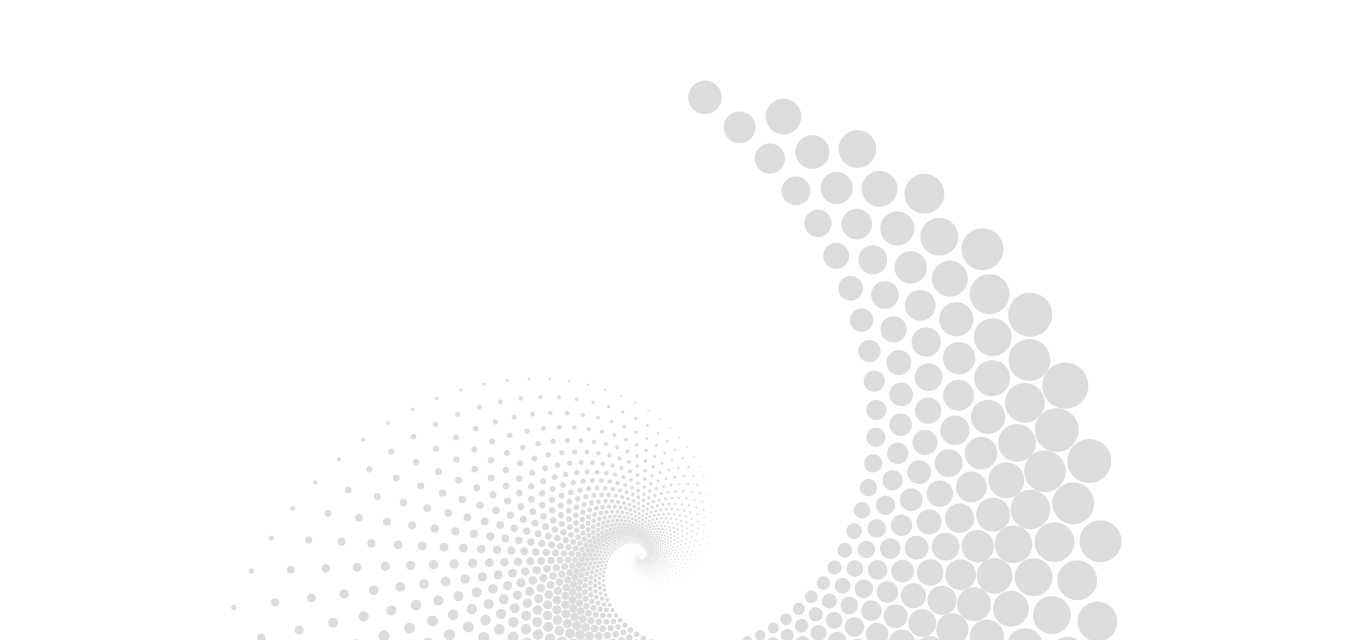
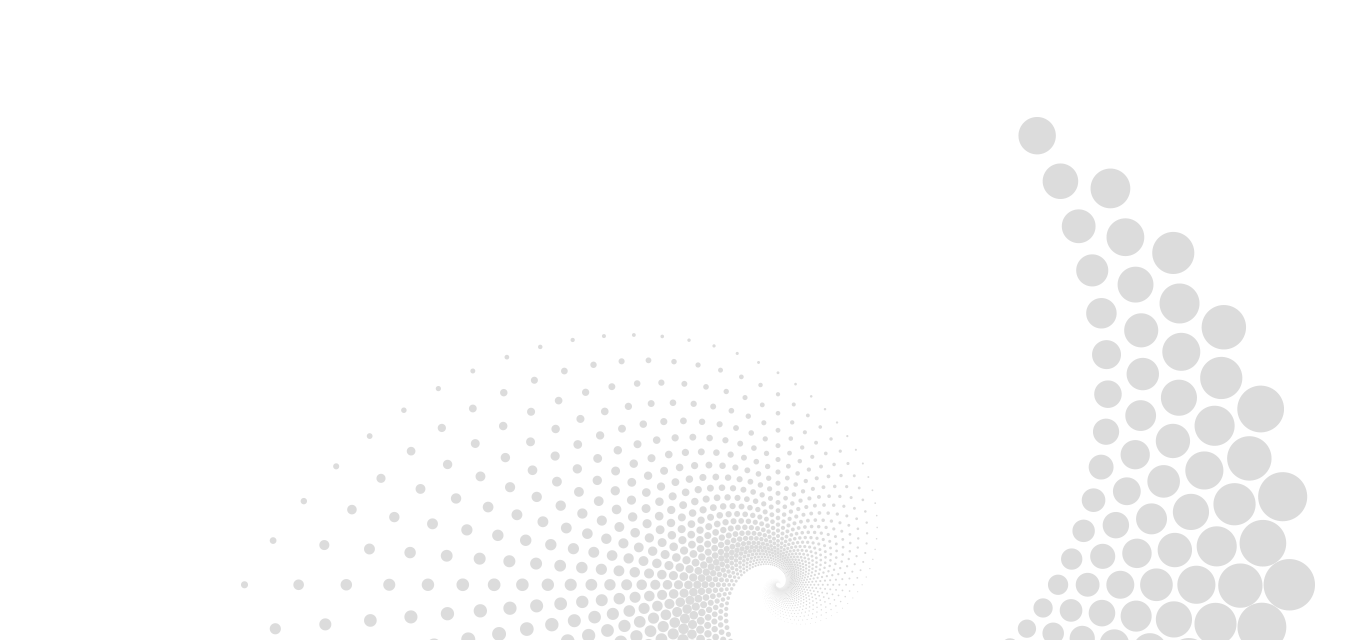
Fix bug: bg/menu-focus/animation enter-liave/pic

diff --git a/src/style/animation.css b/src/style/animation.css
@@ -5,7 +5,8 @@
 .enter .background,
 .enter .footer,
 .enter .header,
-.enter .main{
+.enter .main,
+.enter .zen-box .description{
   animation: enter-disappear 0.7s ease-in-out;
 }
 @keyframes leave-disappear{
@@ -15,7 +16,8 @@
 .leave .background,
 .leave .footer,
 .leave .header,
-.leave .main{
+.leave .main,
+.leave .zen-box .description{
   opacity: 0;
   animation: leave-disappear 0.7s ease-in-out;
 }
@@ -69,10 +71,9 @@
 .pic .cover{
   overflow: hidden;
 }
-
-
 @keyframes enter-desc{
   0% { opacity: 0;  }
+  80% { opacity: 0;  }
   100% { opacity: 1; }
 }
 .enter-desc.desc{
@@ -80,6 +81,7 @@
 }
 @keyframes leave-desc{
   0% { opacity: 1;  }
+  60% { opacity: 0;  }
   100% { opacity: 0; }
 }
 .leave-desc.desc{
@@ -123,39 +125,26 @@
   animation: leave-zen-box 0.7s ease-in-out;
 }
 
-
-@keyframes enter-zen-box-desc{
-  0% { opacity: 0;  }
-  50% { opacity: .2; }
-  100% { opacity: 1; }
-}
-.enter .zen-box .description{
-  animation: enter-zen-box-desc 0.7s ease-in-out;
-}
-@keyframes leave-zen-box-desc{
-  0% { opacity: 1;  }
-  50% { opacity: .8; }
-  100% { opacity: 0; }
-}
-.leave .zen-box .description{
-  animation: leave-zen-box-desc 0.7s ease-in-out;
-}
-
 .pic .cover{
   overflow: hidden;
 }
-  @keyframes enter-pic{
+.pic .jalousie{
+  animation: enter-pic 0.7s ease-in-out;
+}
+@keyframes enter-pic{
   0% { transform: translateX(-240%);  }
   100% { transform: translateX(0%); }
 }
-.pic.enter-pic .jalousie{
+.pic.enter-pic .jalousie,
+.enter .pic .jalousie{
   animation: enter-pic 0.7s ease-in-out;
 }
 @keyframes leave-pic{
   0% { transform: translateX(0);  }
   100% { transform: translateX(-240%); }
 }
-.pic.leave-pic .jalousie{
+.pic.leave-pic .jalousie,
+.leave .pic .jalousie{
   transform: translateX(-240%);
   animation: leave-pic 0.7s ease-in-out;
 }

diff --git a/src/containers/Menu/index.js b/src/containers/Menu/index.js
@@ -19,9 +19,12 @@ class Menu extends Component {
       className={ 'menu ' + (this.props.menu.menuIsOpen ? 'isOpend' : '') }
       onClick={this.handleToggleMenu}
       onKeyDown={this.handleKeydown}
-      onBlur={this.handleBlur}
+      //onBlur={this.handleBlur} 
     >
-      <button></button>
+      <div
+        className='arrow-for-button'>
+        <button></button>
+      </div>
       <ul>
         <li><NavLink to='/portfolio-des'>Portfolio</NavLink></li>
         <li><NavLink to='/about-des'>About</NavLink></li>
@@ -36,8 +39,11 @@ class Menu extends Component {
   handleToggleMenu = (event) => {
     const { menu } = this.props,
           { openMenu, closeMenu } = this.props.menuActions
-    if (event.target.tagName != 'BUTTON') return;
-    menu.menuIsOpen ? closeMenu() : openMenu()
+    if ( event.target.tagName == 'BUTTON'
+    || event.target.classList.contains('arrow-for-button') ) {
+      menu.menuIsOpen ? closeMenu() : openMenu()
+    }
+
   }
 
   handleBlur = (event) => {
@@ -70,7 +76,6 @@ class Menu extends Component {
 
 function mapStateToProps (state) {
   return {
-    //who: state.who,
     menu: state.menu,
   }
 }

diff --git a/src/middlewares/routingAnimation.js b/src/middlewares/routingAnimation.js
@@ -1,13 +1,14 @@
 import { LOCATION_CHANGE } from 'react-router-redux'
 
-export const routingDelay = store => next => action => { //eslint-disable-line no-unused-vars
+export const routingAnimation = store => next => action => { //eslint-disable-line no-unused-vars
 
   const shell = document.body.querySelector('.shell')
   if(!shell)return;
 
-  if (action.type === LOCATION_CHANGE) {
-    const f = next.bind(this, action)
+  if ( (action.type === LOCATION_CHANGE) && (action.payload.action == 'PUSH') ) {
     leaveAnimation()
+  } else if ( (action.type === LOCATION_CHANGE) && (action.payload.action == 'POP') ) {
+    const f = next.bind(this, action)
     setTimeout( enterAnimation, 700 )
     return setTimeout( f, 700 )
   } else {
@@ -15,13 +16,15 @@ export const routingDelay = store => next => action => { //eslint-disable-line n
   }
 
   function leaveAnimation(){
-    shell.classList.remove('enter')
+    //console.log('leave')
+
     shell.classList.add('leave')
   }
 
   function enterAnimation(){
+    //console.log('enter')
     shell.classList.remove('leave')
-    shell.classList.add('enter')
+
   }
 
 

diff --git a/src/components/Picture/pic.css b/src/components/Picture/pic.css
@@ -19,8 +19,8 @@
   width: 100%;
   height: 100%;
   background-image: url('./about-des-pic.jpg');
-  background-size: 400% 100%;
-  background-position: 0 0;
+  background-size: 400% auto;
+  background-position: 0 50%;
   background-repeat: no-repeat;
   background-attachment: scroll;
 }
@@ -33,6 +33,7 @@
 .pic .jalousie.item4{
   background-position: 99.3% 50%;
 }
+
 .dev .pic .jalousie{
   background-image: url('./about-dev-pic.jpg');
 }
@@ -48,7 +49,9 @@
 }
 .des.port .pic.kurortguru .jalousie{
   background-image: url('./kurortguru.jpg');
-  //background-position: 0% 0%;
+}
+.pic.kurortguru .jalousie{
+  background-position-y: 0%;
 }
 .des.port .pic.gem .jalousie{
   background-image: url('./gem.jpg');

diff --git a/src/store/configureStore.js b/src/store/configureStore.js
@@ -3,8 +3,7 @@ import rootReducer from '../reducers'
 import { createLogger } from 'redux-logger'
 import thunk from 'redux-thunk'
 import { redirect } from '../middlewares/redirect'
-import { routingDelay } from '../middlewares/routingDelay'
-import { focusOnLoad } from '../middlewares/focus'
+import { routingAnimation } from '../middlewares/routingAnimation'
 
 
 export default function configureStore(initialState) {
@@ -14,7 +13,7 @@ export default function configureStore(initialState) {
     rootReducer,
     initialState,
     composeEnhancers(
-      applyMiddleware(routingDelay,thunk,logger,redirect,focusOnLoad)
+      applyMiddleware(thunk,logger,redirect,routingAnimation )
     )
   )
 

diff --git a/src/components/Footer/index.js b/src/components/Footer/index.js
@@ -1,4 +1,5 @@
 import React, { Component } from 'react'
+import { Link } from 'react-router'
 import './footer.css'
 
 export default class Footer extends Component {
@@ -9,7 +10,8 @@ export default class Footer extends Component {
           <li className='ru'>ru</li>
           <li className='en active'>en</li>
         </ul>
-        <div className='more-info'>More information	&nbsp; &#8595;</div>
+        <Link to='/portfolio-des' className='more-info about-des'>More information	&nbsp; &#8595;</Link>
+        <Link to='/portfolio-dev' className='more-info about-dev'>More information	&nbsp; &#8595;</Link>
       </div>
     )
   }

diff --git a/src/components/Footer/footer.css b/src/components/Footer/footer.css
@@ -19,14 +19,30 @@
   font-weight: 800;
 }
 .footer .more-info{
+  display: none;
   width: 12.5%;
   padding-bottom: 30px;
   text-align: center;
   font-weight: 700;
+  color:
 }
 .dev .footer .more-info{
   width: 25%;
   margin-left: 37.5%;
   padding-left: 60px;
   text-align: left;
+}
+a.more-info:hover,
+a.more-info:active{
+  color: #cfdc3c;
+}
+.des .footer .more-info.about-des{
+  display: block;
+}
+.dev .footer .more-info.about-dev{
+  display: block;
+}
+.port.dev .footer .more-info.about-dev,
+.port.des .footer .more-info.about-des{
+  display: none;
 }

diff --git a/src/containers/Menu/menu.css b/src/containers/Menu/menu.css
@@ -9,16 +9,19 @@
 .des .menu{
   flex-direction: row-reverse;
 }
+.arrow-for-button{
+  cursor: pointer;
+  flex-shrink: 0;
+}
 .menu button{
   position: relative;
   background: none;
   outline: none;
   border: none;
   cursor: pointer;
-  flex-shrink: 0;
   width: 33px;
   height: 7px;
-  margin-top: 10px;
+  top: -3px;
 }
 .menu button::before,
 .menu button::after{

diff --git a/src/components/Lists/list.css b/src/components/Lists/list.css
@@ -4,13 +4,6 @@
 .list li{
   padding-bottom: 5px;
 }
-.list a:link,
-.list a:visited,
-.list a:hover,
-.list a:active{
-  text-decoration: none;
-  color: #fff;
-}
 .list a:hover,
 .list a:active{
   font-weight: 800;

diff --git a/src/components/Picture/index.js b/src/components/Picture/index.js
@@ -5,7 +5,6 @@ export default class Picture extends Component {
 
   componentDidMount(){
     this.changePicture()
-    this.enterAnimation()
   }
   componentDidUpdate(){
     this.leaveAnimation()

diff --git a/src/style/style.css b/src/style/style.css
@@ -29,6 +29,13 @@ html{
 html *{
   box-sizing: border-box;
 }
+a:link,
+a:visited,
+a:hover,
+a:active{
+  text-decoration: none;
+  color: #fff;
+}
 .content,
 .shell{
   overflow: hidden;

diff --git a/src/constants/app.js b/src/constants/app.js
@@ -1,2 +1,1 @@
-export const FOCUS = 'FOCUS'
 export const GET_ANSWER_WHO = 'GET_ANSWER_WHO'
